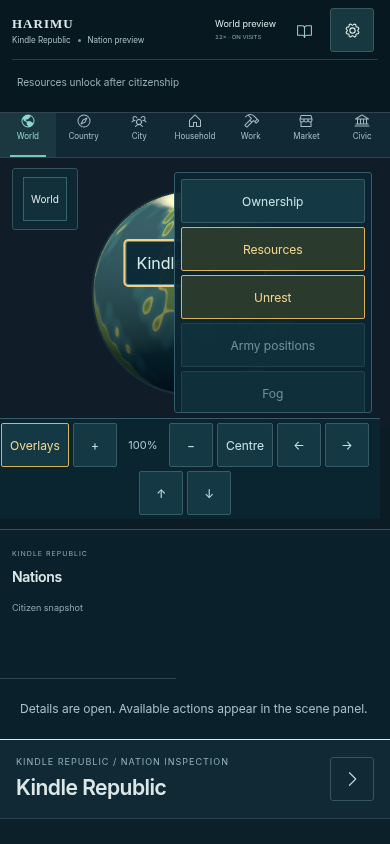
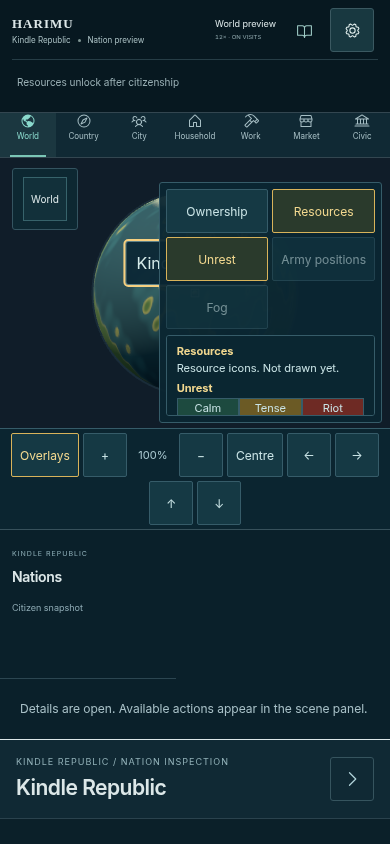
#82: fix CI layout check: the relative camera bar kept right:10px and shifted 10px; phone legend no longer max-content; popover grid shrinks to fit (Part of #82)

Changed region(s): [[0.0, 0.1848, 0.9846, 0.6469]]

diff --git a/app/game-shell.css b/app/game-shell.css
@@ -389,7 +389,7 @@ body:has(.harimu-game){overflow:auto}
 @media(max-width:760px){.game-hud-v2 .game-account button[aria-controls="harimu-account-menu"]{gap:3px;padding-left:3px}.game-hud-v2 .game-account button[aria-controls="harimu-account-menu"]::before{width:14px;height:14px}.game-hud-v2 .game-account{column-gap:3px}.game-hud-v2 .game-resources{gap:3px}.game-hud-v2 .game-resources>*,.game-hud-v2 .game-resources>.game-hud-help{flex-basis:calc(64px * var(--text-scale, 1))}.game-hud-v2 .game-resources>div,.game-hud-v2 .game-resources>.game-hud-help>summary,.game-hud-v2 .game-resources>.game-wallet-button{padding-inline:3px;column-gap:3px}}
 @media(min-width:1101px){.game-hud-v2 .game-account{gap:10px}}
 /* #82 slice 1: Overlays group, bottom-right, directly left of the zoom cluster (teal panel, gold for the pressed state). */
-.map-overlays{position:relative;display:flex;align-items:center}
+.map-overlays{position:relative;display:flex;align-items:center;flex:none}
 .map-overlays-trigger{display:none}
 .map-overlays-panel{display:flex;flex-direction:column;align-items:flex-end}
 .map-overlays-group{display:flex;align-items:center;gap:4px;flex-wrap:wrap;padding-right:6px;margin-right:2px;border-right:1px solid #365c69}
@@ -406,15 +406,16 @@ body:has(.harimu-game){overflow:auto}
 .map-overlays-scale li:nth-child(1){background:#1d4a3f}.map-overlays-scale li:nth-child(2){background:#6b5a25}.map-overlays-scale li:nth-child(3){background:#6e2a24}
 .map-overlays-status{position:absolute;width:1px;height:1px;overflow:hidden;clip-path:inset(50%);white-space:nowrap}
 @media(max-width:390px){
-  .game-stage .viewport-controls:has(.map-overlays){position:relative}.map-overlays{position:static}
+  .game-stage .viewport-controls:has(.map-overlays){position:relative;inset:auto}.map-overlays{position:static}
   .map-overlays-trigger{display:inline-flex;align-items:center;justify-content:center}
   .map-overlays-panel{display:none;position:absolute;bottom:calc(100% + 6px);right:8px;z-index:4;padding:6px;background:#0b2631f2;border:1px solid #365c69;border-radius:3px;width:max-content;max-width:calc(100vw - 24px);max-height:max(160px,calc(44dvh - 130px));overflow:hidden}
   .map-overlays-panel[data-sheet]{width:auto}
   .map-overlays[data-open="true"] .map-overlays-panel{display:flex;align-items:stretch}
   .harimu-game .game-stage:has(.map-overlays-panel[data-sheet]){z-index:30}.map-overlays-panel[data-sheet]{z-index:30;box-shadow:0 -8px 24px #0009}
   .map-overlays[data-open="true"] .map-overlays-trigger{border-color:#d8b35a;color:#f2d88f}
-  .map-overlays-group{display:grid;grid-template-columns:repeat(auto-fit,minmax(min(100%,128px),1fr));flex:none;border-right:0;padding-right:0;margin-right:0}.map-overlays-unavailable{display:grid}
+  .map-overlays-panel{min-width:0}.map-overlays-group button{white-space:normal;overflow-wrap:normal}.map-overlays-scale li{min-width:0}
+  .map-overlays-group{display:grid;grid-template-columns:repeat(2,minmax(0,1fr));flex:none;border-right:0;padding-right:0;margin-right:0}.map-overlays-unavailable{display:grid}
   .map-overlays-title{display:none}
-  .map-overlays-legend{position:static;order:2;max-width:none;margin-top:6px;flex:1 1 auto;min-height:0;overflow-y:auto}
+  .map-overlays-legend{position:static;order:2;width:auto;max-width:none;margin-top:6px;flex:1 1 auto;min-height:0;overflow-y:auto}
   .map-overlays-unavailable [role="tooltip"]{right:auto;left:0;max-width:calc(100vw - 48px)}
 }
